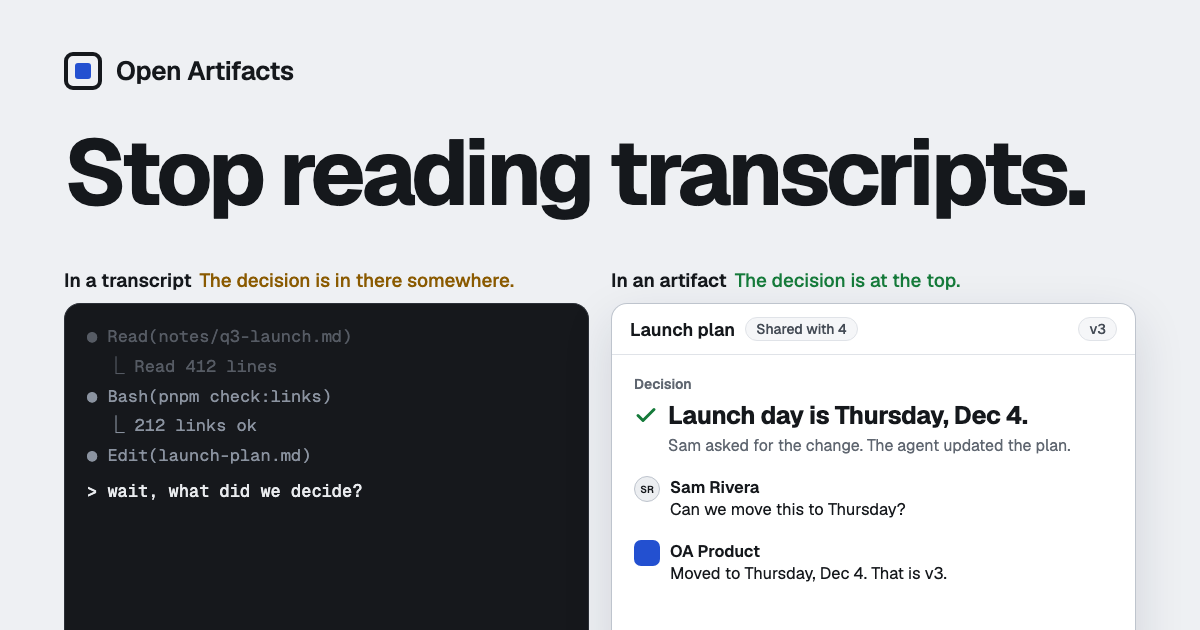
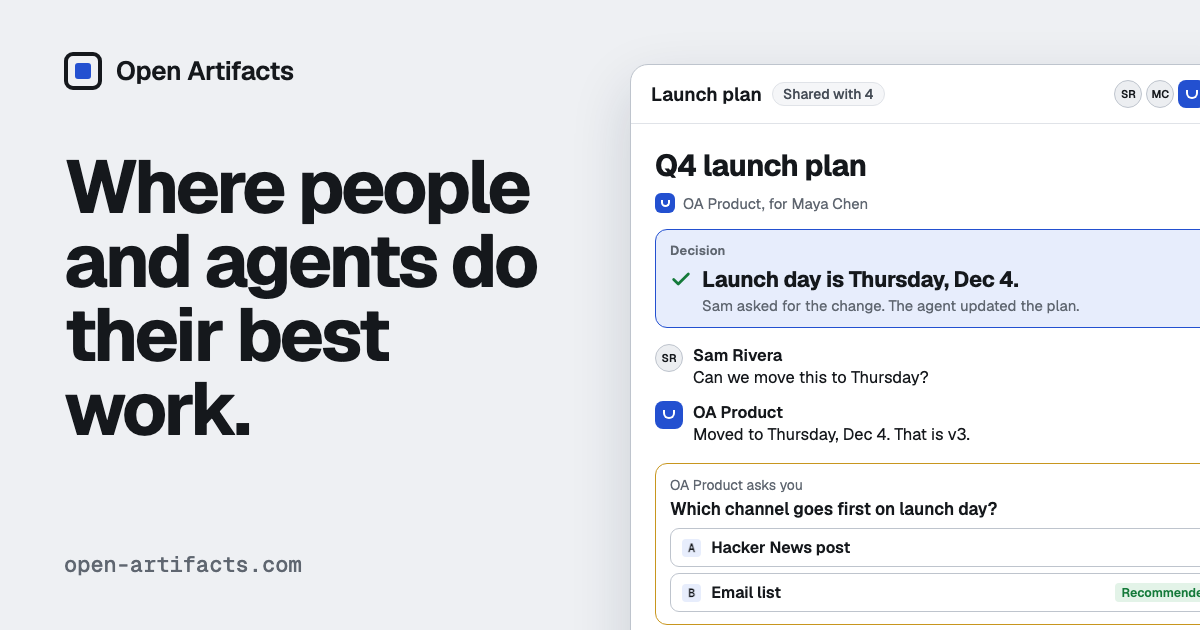
feat(landing): link preview A: new title and picture
Claude-Session: https://claude.ai/code/session_01SNRQb9EM99XiaZKhnTtrxK

diff --git a/apps/landing/test/sections.test.ts b/apps/landing/test/sections.test.ts
@@ -39,7 +39,7 @@ describe("landing sections", () => {
 
   it("has the title and OA Product's description", () => {
     expect(index).toContain(
-      "<title>Open Artifacts: stop reading transcripts</title>",
+      "<title>Open Artifacts: where people and agents do their best work</title>",
     );
     const desc =
       index.match(/<meta name="description" content="([^"]*)"/)?.[1] ?? "";
@@ -47,8 +47,12 @@ describe("landing sections", () => {
       "Your agents put their work in an artifact. Your team reads it, comments and decides. Open source, works with any agent.",
     );
     expect(index).toContain(
-      '<meta property="og:title" content="Open Artifacts: stop reading transcripts"',
+      '<meta property="og:title" content="Open Artifacts: where people and agents do their best work"',
     );
+    expect(index).toContain(
+      '<meta name="twitter:title" content="Open Artifacts: where people and agents do their best work"',
+    );
+    expect(index).not.toContain("stop reading transcripts</title>");
     expect(desc.length).toBeLessThanOrEqual(160);
     expect(desc).not.toContain("Google Docs");
   });
@@ -66,7 +70,7 @@ describe("landing sections", () => {
     expect(meta("property", "og:image:width")).toBe("1200");
     expect(meta("property", "og:image:height")).toBe("630");
     const alt =
-      "Stop reading transcripts. The same work in a transcript and in an artifact.";
+      "Open Artifacts. Where people and agents do their best work. A launch plan artifact with a decision, comments and an ask.";
     expect(meta("property", "og:image:alt")).toBe(alt);
     expect(meta("name", "twitter:image:alt")).toBe(alt);
     const png = readFileSync(

diff --git a/apps/landing/src/lib/copy.ts b/apps/landing/src/lib/copy.ts
@@ -10,11 +10,12 @@ export const HERO_COPY = {
   cue: "Scroll to see the same work in a transcript and in an artifact.",
 };
 
-export const HOME_TITLE = "Open Artifacts: stop reading transcripts";
+export const HOME_TITLE =
+  "Open Artifacts: where people and agents do their best work";
 export const HOME_DESCRIPTION =
   "Your agents put their work in an artifact. Your team reads it, comments and decides. Open source, works with any agent.";
 export const OG_ALT =
-  "Stop reading transcripts. The same work in a transcript and in an artifact.";
+  "Open Artifacts. Where people and agents do their best work. A launch plan artifact with a decision, comments and an ask.";
 
 /**
  * Whether Gemini's mark shows next to "coming soon". A logo can read as support
